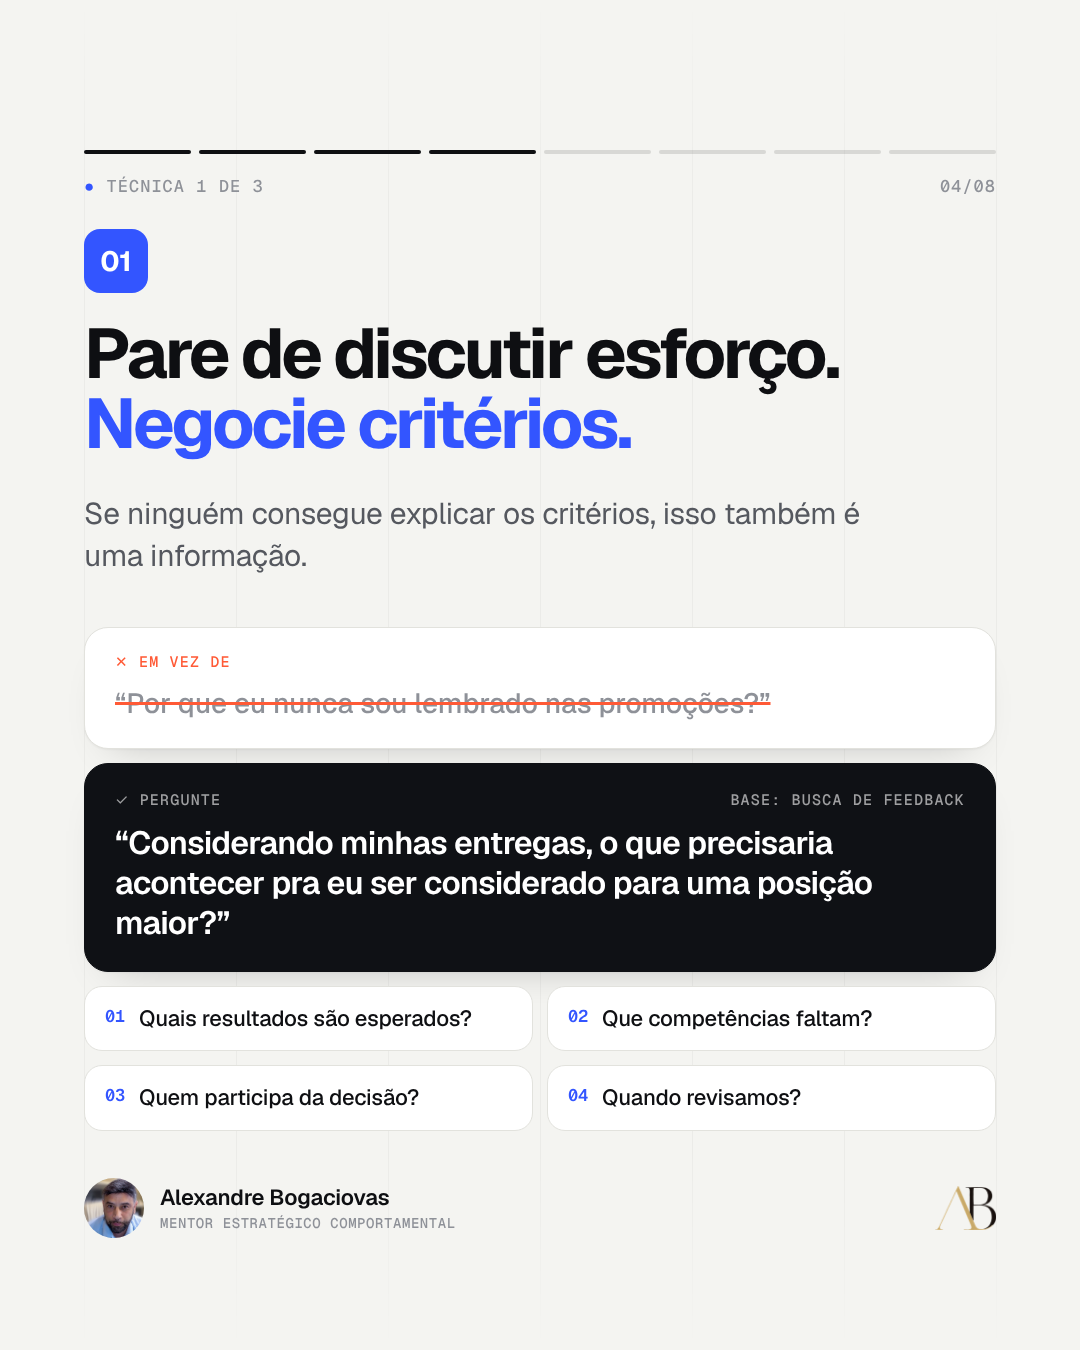
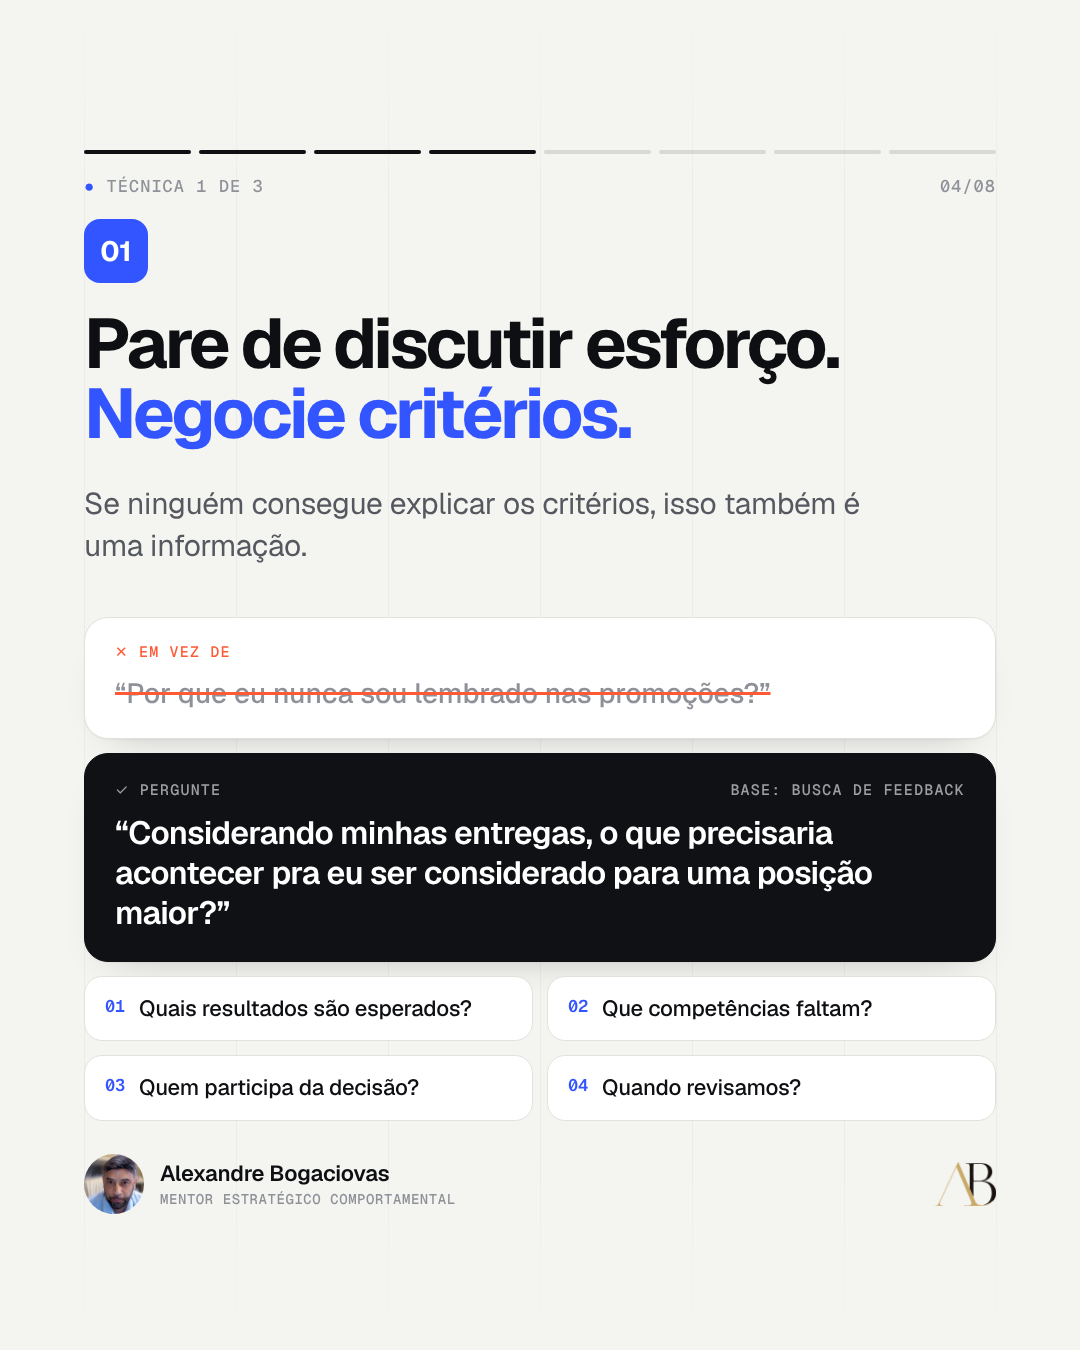
Capa moderna sem barra de progresso e foto mais baixa (cabeça livre do selo)
Claude-Session: https://claude.ai/code/session_01XJes5DVhURtV4jnmTZCFoF

Changed region(s): [[0.0611, 0.4667, 0.9167, 0.9333], [0.0611, 0.1556, 0.7944, 0.4356], [0.8861, 0.84, 0.9472, 0.9022]]

diff --git a/.claude/skills/carrossel-skills-gestao/scripts/checar-margens.js b/.claude/skills/carrossel-skills-gestao/scripts/checar-margens.js
@@ -1,0 +1,66 @@
+#!/usr/bin/env node
+/*
+  Verificação automática da zona segura do Instagram (post 4:5, 1080x1350).
+  Mede a caixa de cada elemento visível com conteúdo (texto, logo, avatar,
+  ícones, cards) e reprova o que invadir:
+    - contador "1/8"      x 900-1080, y 0-120
+    - ícone de marcação   x 0-120,    y 1230-1350
+    - ícone de som        x 960-1080, y 1230-1350
+    - margem geral: conteúdo deve ficar entre y 130 e 1250 e a >= 60px das laterais
+  Fotos de fundo (.foto, .moldura>img de fundo) e a grade decorativa são ignoradas.
+  Uso: node scripts/checar-margens.js conteudo.json [outro.json ...]
+*/
+const fs = require('fs'), path = require('path');
+const { chromium } = require('playwright');
+const ZONAS = [[900, 0, 1080, 120, 'contador 1/8'], [0, 1230, 120, 1350, 'ícone marcação'], [960, 1230, 1080, 1350, 'ícone som']];
+const SEG = { x0: 60, y0: 130, x1: 1020, y1: 1250 };
+const MIME = { '.png': 'image/png', '.jpg': 'image/jpeg', '.jpeg': 'image/jpeg', '.svg': 'image/svg+xml', '.webp': 'image/webp' };
+
+(async () => {
+  const b = await chromium.launch();
+  let falhas = 0;
+  for (const arq of process.argv.slice(2)) {
+    const jp = path.resolve(arq), base = path.dirname(jp);
+    const c = JSON.parse(fs.readFileSync(jp, 'utf8'));
+    const asset = p => (!p || /^(https?:|data:)/.test(p)) ? p : (fs.existsSync(path.resolve(base, p)) ? `data:${MIME[path.extname(p).toLowerCase()]};base64,${fs.readFileSync(path.resolve(base, p)).toString('base64')}` : '');
+    ['avatar', 'logo', 'logo_claro'].forEach(k => c.autor[k] = asset(c.autor[k]));
+    c.slides.forEach(s => { if (s.foto) s.foto = asset(s.foto); if (s.visual_img) s.visual_img = asset(s.visual_img); });
+    const tpl = path.resolve(__dirname, '../templates/' + (c.template || 'carrossel') + '.html');
+    const p = await b.newPage({ viewport: { width: 1180, height: 1400 } });
+    await p.addInitScript(x => { window.CONTEUDO = x; }, c);
+    await p.goto('file://' + tpl, { waitUntil: 'networkidle' });
+    await p.evaluate(() => document.fonts.ready);
+    const res = await p.evaluate(({ ZONAS, SEG }) => {
+      const out = [];
+      document.querySelectorAll('section.slide').forEach((sl, i) => {
+        const R = sl.getBoundingClientRect();
+        sl.querySelectorAll('*').forEach(el => {
+          if (el.matches('.foto, .shade, .moldura, .moldura .foto, script, style')) return;
+          const cs = getComputedStyle(el);
+          if (cs.visibility === 'hidden' || cs.display === 'none' || +cs.opacity === 0) return;
+          const temTexto = [...el.childNodes].some(n => n.nodeType === 3 && n.textContent.trim());
+          const ehMidia = el.tagName === 'IMG' || el.tagName === 'svg';
+          const ehBarra = el.matches('.prog i');
+          if (!temTexto && !ehMidia && !ehBarra) return;
+          const r = el.getBoundingClientRect();
+          if (!r.width || !r.height) return;
+          const x0 = r.left - R.left, y0 = r.top - R.top, x1 = x0 + r.width, y1 = y0 + r.height;
+          const nome = (el.className && el.className.baseVal === undefined ? el.className : el.tagName) || el.tagName;
+          const txt = (el.textContent || el.getAttribute('alt') || '').trim().slice(0, 40);
+          for (const [a, b2, c2, d, z] of ZONAS) if (x0 < c2 && x1 > a && y0 < d && y1 > b2) out.push({ slide: i + 1, motivo: 'invade ' + z, el: nome, txt, box: [x0, y0, x1, y1].map(Math.round) });
+          if (x0 < SEG.x0 - 0.5 || y0 < SEG.y0 - 0.5 || x1 > SEG.x1 + 0.5 || y1 > SEG.y1 + 0.5) out.push({ slide: i + 1, motivo: 'fora da margem segura', el: nome, txt, box: [x0, y0, x1, y1].map(Math.round) });
+        });
+      });
+      return out;
+    }, { ZONAS, SEG });
+    const n = await p.$$eval('section.slide', s => s.length);
+    // remove duplicatas do mesmo elemento/motivo
+    const vistos = new Set(), uniq = res.filter(r => { const k = r.slide + r.motivo + r.box; if (vistos.has(k)) return false; vistos.add(k); return true; });
+    console.log(`\n${path.basename(path.dirname(jp))}/${path.basename(jp)} — ${n} slides: ${uniq.length ? '✗ ' + uniq.length + ' problema(s)' : '✓ tudo dentro da zona segura'}`);
+    uniq.forEach(r => console.log(`  slide ${r.slide}: ${r.motivo} — ${r.el} "${r.txt}" ${JSON.stringify(r.box)}`));
+    falhas += uniq.length;
+    await p.close();
+  }
+  await b.close();
+  process.exit(falhas ? 1 : 0);
+})();

diff --git a/.claude/skills/carrossel-skills-gestao/templates/moderno.html b/.claude/skills/carrossel-skills-gestao/templates/moderno.html
@@ -53,7 +53,7 @@ body{background:#666;font-family:Geist,Inter,sans-serif;-webkit-font-smoothing:a
 .escuro .label,.azul .label{color:rgba(255,255,255,.6)} .azul .label b,.escuro .label b{color:#fff}
 
 /* ---------- conteúdo ---------- */
-.conteudo{position:absolute;left:var(--pad);right:var(--pad);top:215px;bottom:205px;display:flex;flex-direction:column;justify-content:center;z-index:2}
+.conteudo{position:absolute;left:var(--pad);right:var(--pad);top:215px;bottom:225px;display:flex;flex-direction:column;justify-content:center;z-index:2}
 .numero{display:inline-flex;align-items:center;gap:14px;font:600 20px/1 'Geist Mono';color:var(--accent);margin-bottom:26px}
 .numero span{display:grid;place-items:center;width:64px;height:64px;border-radius:16px;background:var(--accent);color:#fff;font:700 28px/1 Geist}
 .titulo{font:700 70px/1.0 Geist;letter-spacing:-.045em;max-width:var(--tw,900px)}
@@ -69,7 +69,7 @@ body{background:#666;font-family:Geist,Inter,sans-serif;-webkit-font-smoothing:a
 .visual{margin-top:50px}
 
 /* ---------- rodapé ---------- */
-.footer{position:absolute;left:var(--pad);right:var(--pad);bottom:112px;display:flex;align-items:center;gap:16px;z-index:3}
+.footer{position:absolute;left:var(--pad);right:var(--pad);bottom:136px;display:flex;align-items:center;gap:16px;z-index:3}
 .footer .avatar{width:60px;height:60px;border-radius:50%;object-fit:cover}
 .footer .name{font:600 22px/1 Geist;letter-spacing:-.01em}
 .footer .sub{font:500 14px/1 'Geist Mono';color:var(--muted);letter-spacing:.04em;text-transform:uppercase;margin-top:8px}
@@ -86,7 +86,7 @@ body{background:#666;font-family:Geist,Inter,sans-serif;-webkit-font-smoothing:a
 .capa .chip i{width:9px;height:9px;border-radius:50%;background:var(--accent);box-shadow:0 0 0 4px rgba(51,85,255,.3)}
 .capa .chip span{color:rgba(255,255,255,.6)}
 .capa .logo{height:56px}
-.capa .bloco{position:absolute;left:var(--pad);right:var(--pad);bottom:118px;z-index:3}
+.capa .bloco{position:absolute;left:var(--pad);right:var(--pad);bottom:140px;z-index:3}
 .capa .tag{font:500 18px/1 'Geist Mono';letter-spacing:.08em;text-transform:uppercase;color:#8FA3FF;margin-bottom:24px}
 .capa h1{font:700 104px/1.06 Geist;letter-spacing:-.05em}
 .capa h1 em{font-style:normal;color:#fff;background:var(--accent);border-radius:14px;padding:0 .12em .04em;display:inline-block;margin-top:18px;line-height:1.02;box-decoration-break:clone;-webkit-box-decoration-break:clone}
@@ -147,7 +147,7 @@ body{background:#666;font-family:Geist,Inter,sans-serif;-webkit-font-smoothing:a
 .capa-tipo .chip i,.capa-split .chip i{width:9px;height:9px;border-radius:50%;background:#fff}
 .capa-tipo .chip span,.capa-split .chip span{color:rgba(255,255,255,.65)}
 .capa-tipo .logo{height:56px}
-.capa-tipo .bloco{position:absolute;left:var(--pad);right:var(--pad);bottom:118px;z-index:3}
+.capa-tipo .bloco{position:absolute;left:var(--pad);right:var(--pad);bottom:140px;z-index:3}
 .capa-tipo .tag{font:500 18px/1 'Geist Mono';letter-spacing:.08em;text-transform:uppercase;color:rgba(255,255,255,.75);margin-bottom:26px}
 .capa-tipo h1{font:700 116px/.98 Geist;letter-spacing:-.055em}
 .capa-tipo h1 em{font-style:normal;background:#fff;color:var(--accent);border-radius:16px;padding:0 .1em .04em;display:inline-block;margin-top:14px}
@@ -163,7 +163,7 @@ body{background:#666;font-family:Geist,Inter,sans-serif;-webkit-font-smoothing:a
 .capa-split .moldura .foto{width:100%;height:100%;object-fit:cover}
 .capa-split .moldura .chip{position:absolute;left:24px;top:24px;background:rgba(15,17,21,.55);backdrop-filter:blur(8px)}
 .capa-split .moldura .logo{position:absolute;right:28px;top:22px;height:50px}
-.capa-split .bloco{position:absolute;left:var(--pad);right:var(--pad);bottom:118px;z-index:3}
+.capa-split .bloco{position:absolute;left:var(--pad);right:var(--pad);bottom:140px;z-index:3}
 .capa-split .tag{font:500 18px/1 'Geist Mono';letter-spacing:.08em;text-transform:uppercase;color:#8FA3FF;margin-bottom:20px}
 .capa-split h1{font:700 84px/1 Geist;letter-spacing:-.05em}
 .capa-split h1 em{font-style:normal;color:#8FA3FF}

diff --git a/.claude/skills/carrossel-skills-gestao/SKILL.md b/.claude/skills/carrossel-skills-gestao/SKILL.md
@@ -105,6 +105,7 @@ Copie o HTML para uma pasta irmã de `marca/` (ou ajuste os caminhos `../marca/`
 
 O Instagram sobrepõe elementos ao post 4:5 (1080×1350): contador "1/8" no canto superior direito, ícone de pessoas marcadas no inferior esquerdo, ícone de som no inferior direito, e a grade do perfil recorta a capa em 3:4 (~34 px de cada lateral).
 - Nada importante (logo, nome, @, contador, texto) acima de **y=130**, abaixo de **y=1250** ou a menos de **60 px** das laterais. O tema `moderno` já segue essa regra.
+- **Obrigatório:** rode `node <skill>/scripts/checar-margens.js conteudo.json`. Ele mede a posição de cada texto, logo, avatar e ícone e reprova qualquer invasão (até 1 px). Só entregue com "✓ tudo dentro da zona segura".
 - Depois de renderizar, rode `python3 -I <skill>/scripts/safezone.py <pasta>/out` e abra o `safezone.jpg`: nada relevante pode cair nas áreas vermelhas, e tudo deve ficar dentro do retângulo verde.
 
 ## Regras de fidelidade
